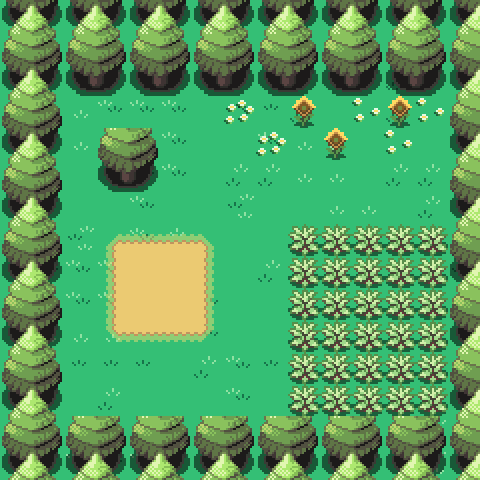
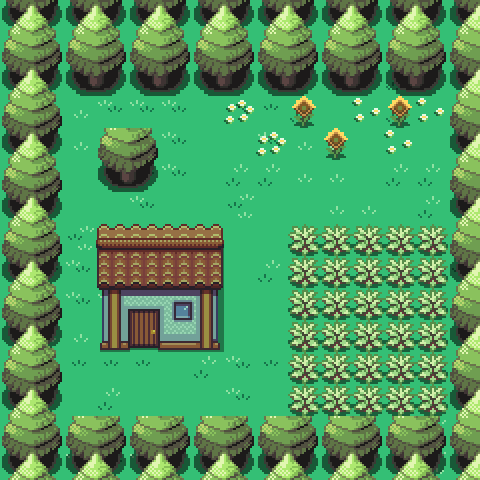
Added house graphic to map and moved game objects.

Changed region(s): [[0.1875, 0.4688, 0.4688, 0.75]]

diff --git a/modules/loaders/object-loaders/gameObjectInstances.js b/modules/loaders/object-loaders/gameObjectInstances.js
@@ -9,9 +9,9 @@ export const ItemNames = {
 export const interactables = [
     new Collectable(6, 4, ItemNames.Potion),
     new Sign(7, 4, "Lorem ipsum dolor sit amet, consectetur adipiscing elit, sed do eiusmod tempor incididunt ut labore et dolore magna aliqua. Ut enim ad minim veniam, quis nostrud exercitation ullamco laboris nisi ut aliquip ex ea commodo consequat. Duis aute irure dolor in reprehenderit in voluptate velit esse cillum dolore eu fugiat nulla pariatur. Excepteur sint occaecat cupidatat non proident, sunt in culpa qui officia deserunt mollit anim id est laborum."),
-    new Collectable(8, 4, ItemNames.Pokeball)
+    new Collectable(5, 4, ItemNames.Pokeball)
 ]
 
 export const trainers = [
-    new Trainer(5, 4, "Strength is the only thing that matters in this world.", 's', [[5, 5], [5, 6], [5, 7], [5, 8]], [[vegetaFR, vegetaF], [vegetaFL, vegetaF]], vegetaF)
+    new Trainer(8, 4, "Strength is the only thing that matters in this world.", 's', [[8, 5], [8, 6], [8, 7], [8, 8]], [[vegetaFR, vegetaF], [vegetaFL, vegetaF]], vegetaF)
 ]

diff --git a/modules/loaders/space-loaders/outside.js b/modules/loaders/space-loaders/outside.js
@@ -14,10 +14,10 @@ let collisionMap = [
     [1, 1, 0, 1, 1, 0, 0, 0, 0, 0, 0, 0, 0, 0, 1],
     [1, 1, 0, 1, 1, 0, 0, 0, 0, 0, 0, 0, 0, 0, 1],
     [1, 1, 0, 0, 0, 0, 0, 0, 0, 0, 0, 0, 0, 0, 1], 
-    [1, 1, 0, 0, 0, 0, 0, 0, 0, 0, 0, 0, 0, 0, 1],
-    [1, 1, 0, 0, 0, 0, 0, 0, 0, 0, 0, 0, 0, 0, 1],
-    [1, 1, 0, 0, 0, 0, 0, 0, 0, 0, 0, 0, 0, 0, 1],
-    [1, 1, 0, 0, 0, 0, 0, 0, 0, 0, 0, 0, 0, 0, 1],
+    [1, 1, 0, 1, 1, 1, 1, 0, 0, 0, 0, 0, 0, 0, 1],
+    [1, 1, 0, 1, 1, 1, 1, 0, 0, 0, 0, 0, 0, 0, 1],
+    [1, 1, 0, 1, 1, 1, 1, 0, 0, 0, 0, 0, 0, 0, 1],
+    [1, 1, 0, 1, 0, 1, 1, 0, 0, 0, 0, 0, 0, 0, 1],
     [1, 1, 0, 0, 0, 0, 0, 0, 0, 0, 0, 0, 0, 0, 1],
     [1, 1, 0, 0, 0, 0, 0, 0, 0, 0, 0, 0, 0, 0, 1],
     [1, 1, 1, 1, 1, 1, 1, 1, 1, 1, 1, 1, 1, 1, 1],
@@ -43,7 +43,7 @@ let bushMap = [
 ];
 
 let doors = [
-    new Door(new Spawn(spaceId, 9, 4), null)
+    new Door(new Spawn(spaceId, 4, 10), null)
 ];
 
 export const outside = new Space(spaceId, outsideImageBG, outsideImageFG, 0, collisionMap, bushMap, doors);

diff --git a/main.js b/main.js
@@ -24,7 +24,7 @@ import { NavigationType } from "./modules/constants/dictionaries/navigationType.
 import { DoorEntryTransitionAnimation, DoorExitTransitionAnimation, EncounterTransitionAnimation } from "./modules/graphics/transitionAnimation.js";
 import { outside } from "./modules/loaders/space-loaders/outside.js";
 
-let player = new Player(8, 8);
+let player = new Player(7, 7);
 let playerVisual = new PlayerVisual(player);
 let stateManager = new StateManager();
 let menuNavigator;
